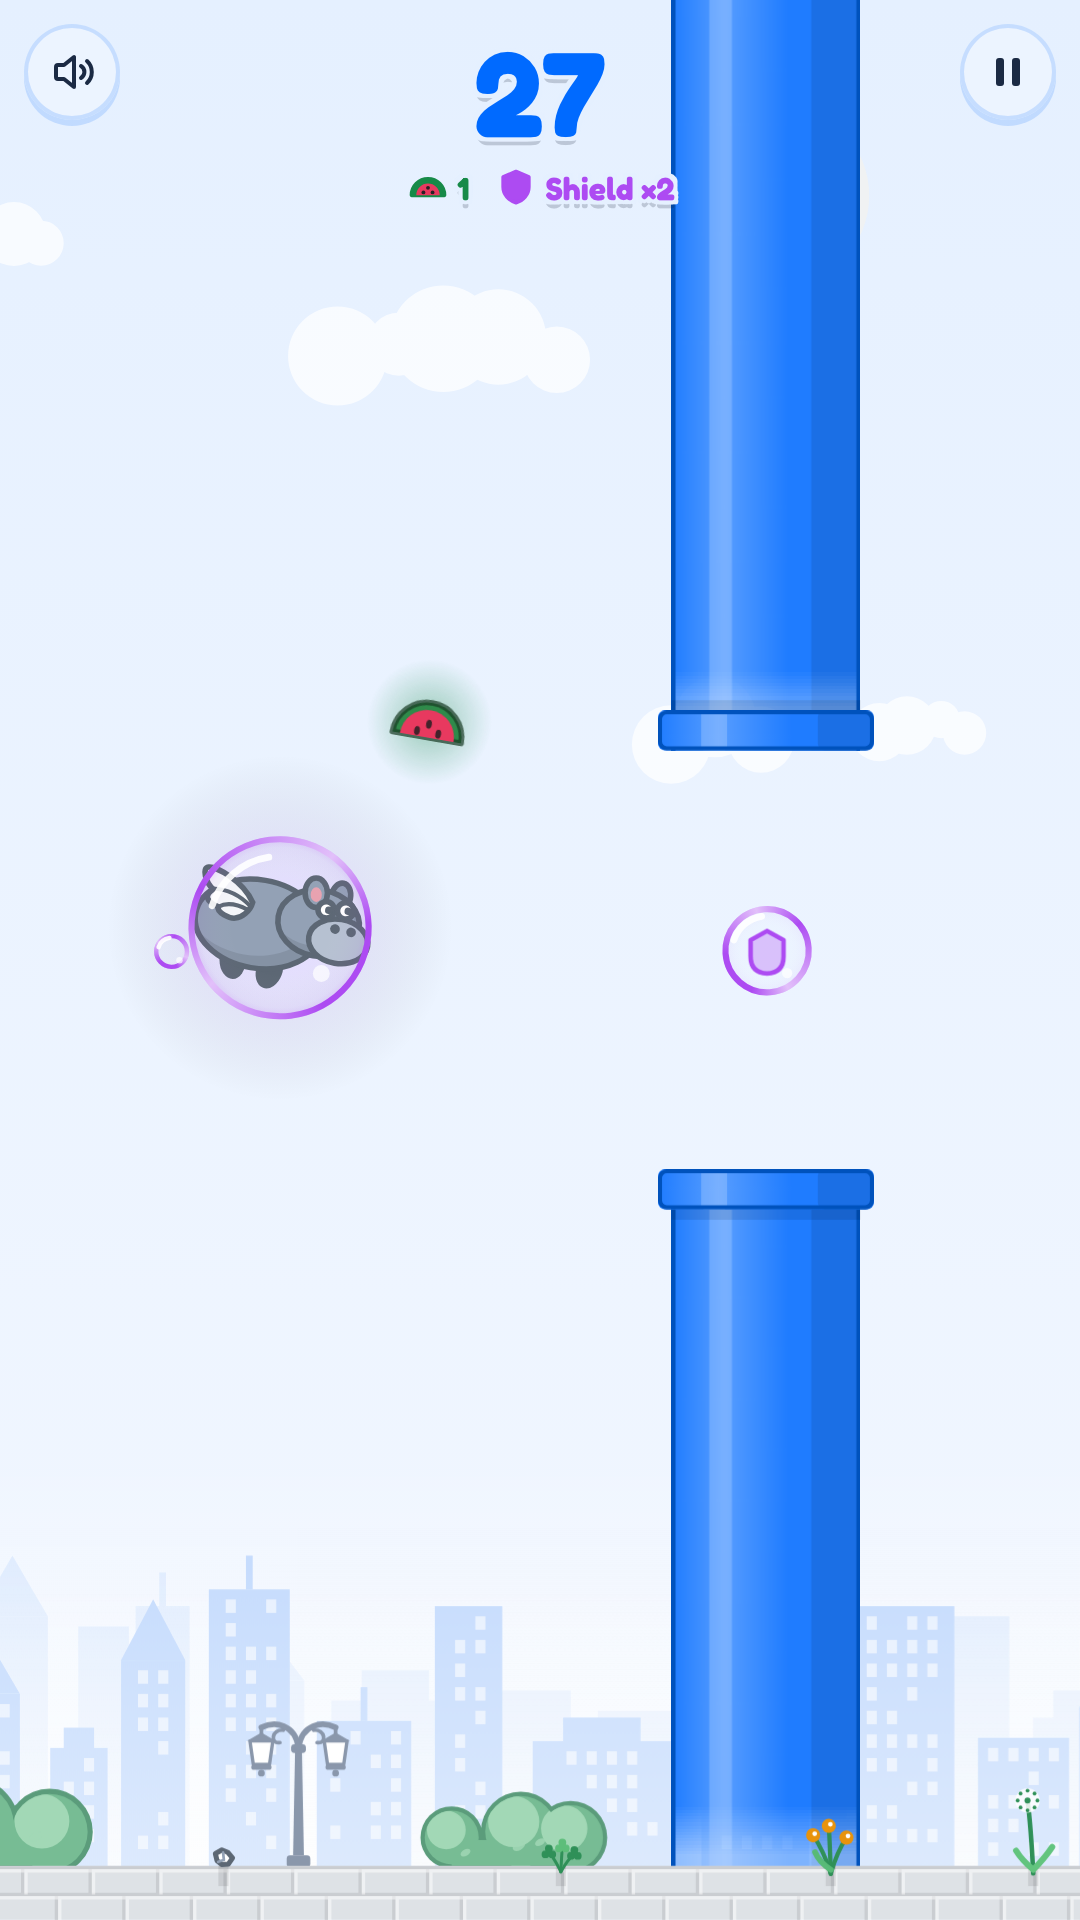
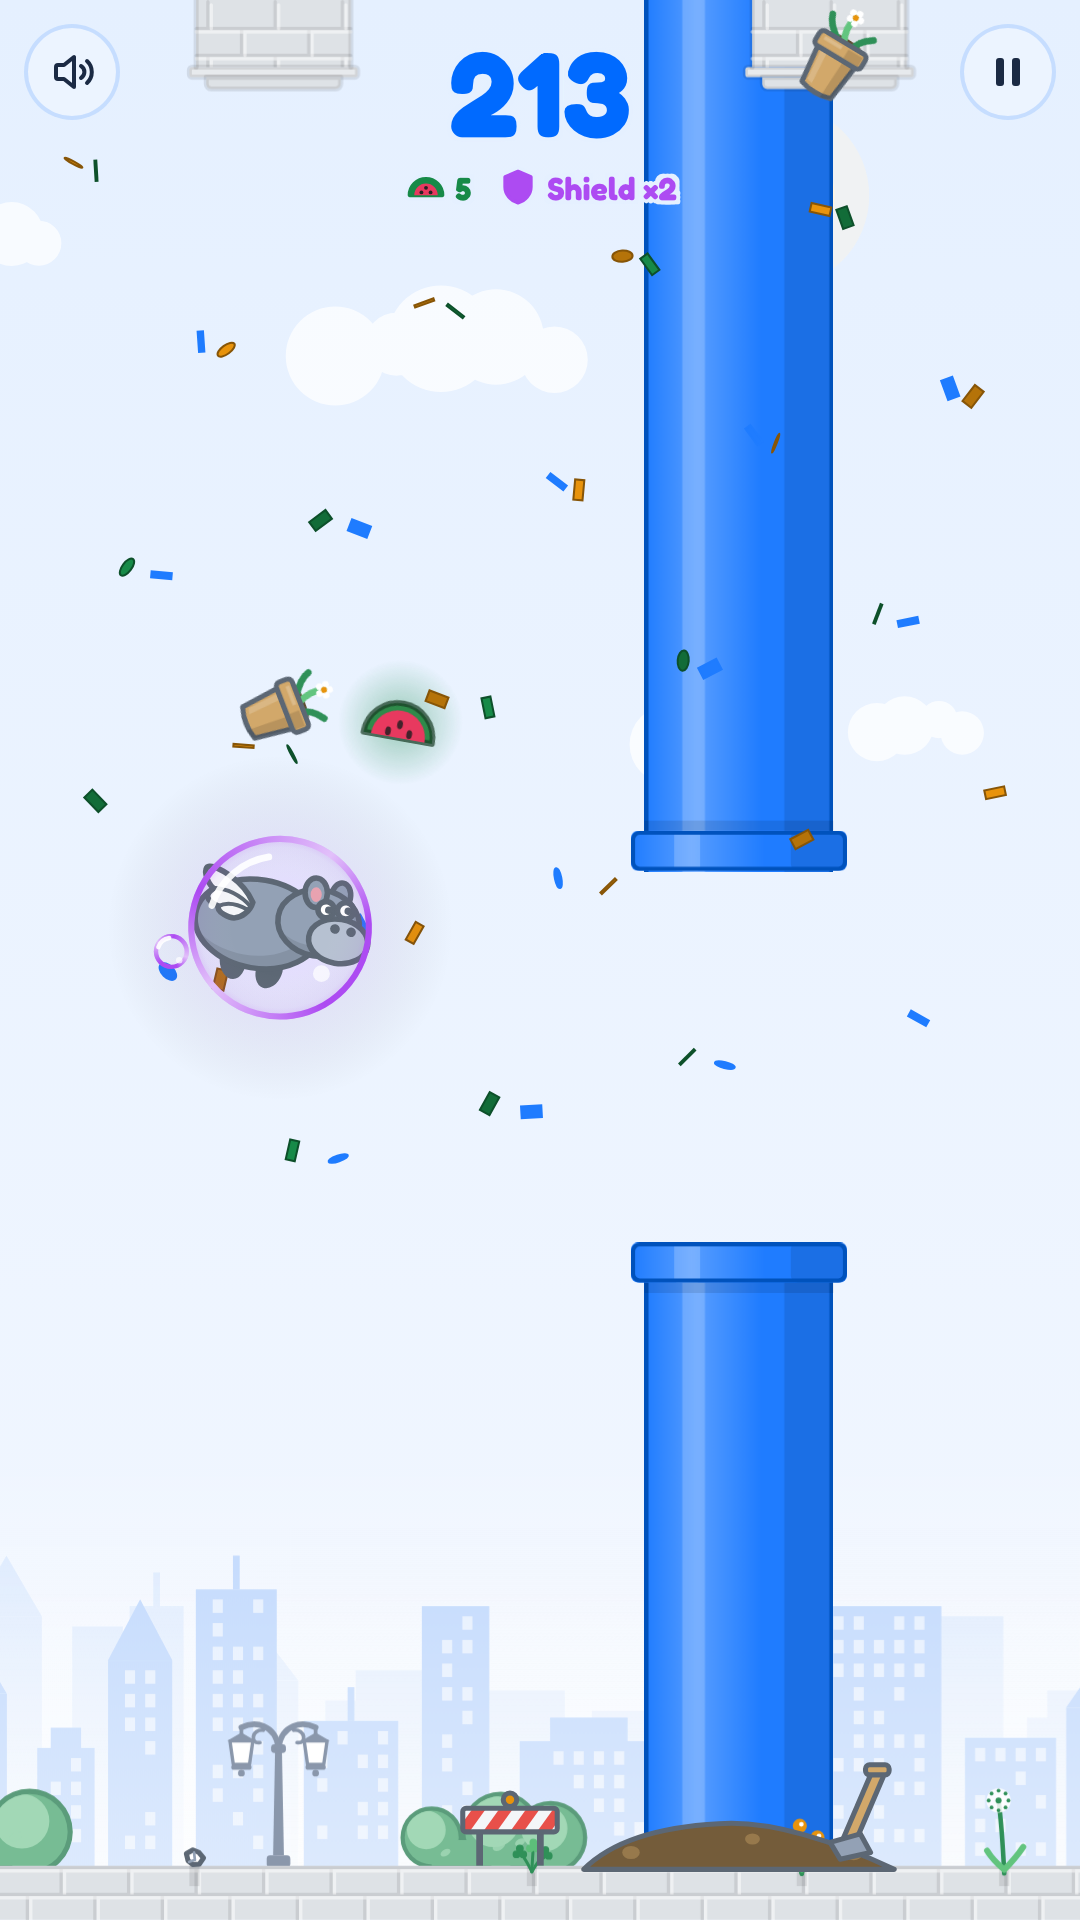
Prepare the release with poster and MIT license

diff --git a/scripts/make-screenshots.ts b/scripts/make-screenshots.ts
@@ -87,17 +87,23 @@ const VIEWPORTS = {
   wide: { width: 960, height: 540 },
 }
 
-/** A round in progress: score, a shield, a melon to detour for, pipes ahead. */
+/**
+ * A round deep in the game: a big score, a shield with a spare, a melon to detour for, a pipe
+ * under repair swinging ahead, a pot on its balcony and one already falling, and the last
+ * milestone's confetti still in the air.
+ */
 async function flight(page: Page): Promise<void> {
   await page.evaluate(() => {
     const runtime = (window as Window & { __flappyHippo?: { flap(): void; inspect(): { state: any; world: any } } }).__flappyHippo!
     runtime.flap()
     const { state, world } = runtime.inspect()
-    state.score = 27
-    state.pipesCleared = 24
-    state.melons = 1
+    state.score = 213
+    state.pipesCleared = 198
+    state.melons = 5
     state.charges = 2
     state.shieldAt = 0
+    state.potsDodged = 9
+    state.moversPassed = 14
     state.hippoY = world.groundY * 0.5
     state.velocity = -150
     const gap = state.hippoY
@@ -105,16 +111,28 @@ async function flight(page: Page): Promise<void> {
     // few frames it scrolls before the capture.
     const ahead = Math.max(world.hippoX + 150, world.width * 0.62)
     state.pipes = [
-      { x: ahead, gapY: gap + 8, half: 62, passed: false, baseY: gap + 8, swing: 0, phase: 0 },
-      { x: ahead + 210, gapY: gap - 55, half: 62, passed: false, baseY: gap - 55, swing: 0, phase: 0 },
-      { x: ahead + 420, gapY: gap + 25, half: 62, passed: false, baseY: gap + 25, swing: 0, phase: 0 },
+      { x: ahead, gapY: gap + 8, half: 55, passed: false, baseY: gap + 8, swing: 34, phase: 0.6 },
+      { x: ahead + 220, gapY: gap - 55, half: 55, passed: false, baseY: gap - 55, swing: 0, phase: 0 },
+      { x: ahead + 440, gapY: gap + 25, half: 55, passed: false, baseY: gap + 25, swing: 0, phase: 0 },
     ]
     // The melon hangs between the hippo and the first pipe, in view on every field.
     state.pickups = [
       { kind: 'melon', x: world.hippoX + 78, y: gap - 62, taken: false, seed: 1 },
-      { kind: 'shield', x: ahead + 28, y: gap + 8, taken: false, seed: 2 },
+      { kind: 'shield', x: ahead + 248, y: gap - 55, taken: false, seed: 2 },
     ]
-    state.nextSpawn = state.scrolled + ahead + 630
+    state.pots = [
+      { x: world.hippoX + 40, y: gap - 110, vy: 220, lead: 0.7, falling: true, spin: 0.7, passed: false, smashed: false, seed: 1 },
+      { x: Math.min(ahead + 120, world.width - 32), y: 13.4, vy: 0, lead: 0.8, falling: false, spin: 0.08, passed: false, smashed: false, seed: 2 },
+    ]
+    for (let i = 0; i < 44; i++) {
+      state.confetti.push({
+        x: 20 + ((i * 37) % (world.width - 40)),
+        y: 40 + ((i * 53) % (world.groundY * 0.55)),
+        vx: 0, vy: 30, angle: i, spin: 3, flip: i * 0.7, flipRate: 8,
+        w: 6, h: 3.5, round: i % 4 === 0, tint: i % 3, life: 1.5, seed: i,
+      })
+    }
+    state.nextSpawn = state.scrolled + ahead + 660
   })
   await sleep(80)
 }

diff --git a/index.html b/index.html
@@ -21,16 +21,18 @@
     <meta property="og:title" content="Flappy Hippo" />
     <meta property="og:description" content="Make the hippo fly and dodge the pipes. Playable offline, no account, no ads." />
     <meta property="og:url" content="https://stekhn.github.io/flappy-hippo/" />
-    <meta property="og:image" content="https://stekhn.github.io/flappy-hippo/screenshots/wide-flight.png" />
-    <meta property="og:image:width" content="1920" />
-    <meta property="og:image:height" content="1080" />
-    <meta property="og:image:alt" content="The flying hippo between two pipes, with the score." />
+    <meta property="og:image" content="https://stekhn.github.io/flappy-hippo/preview.jpg" />
+    <meta property="og:image:type" content="image/jpeg" />
+    <meta property="og:image:width" content="1200" />
+    <meta property="og:image:height" content="800" />
+    <meta property="og:image:alt" content="Flappy Hippo: a winged hippo flying between blue pipes over the city, a melon ahead, a black cat on the wall." />
     <meta property="og:locale" content="en_US" />
     <meta property="og:locale:alternate" content="de_DE" />
     <meta name="twitter:card" content="summary_large_image" />
     <meta name="twitter:title" content="Flappy Hippo" />
     <meta name="twitter:description" content="Make the hippo fly and dodge the pipes." />
-    <meta name="twitter:image" content="https://stekhn.github.io/flappy-hippo/screenshots/wide-flight.png" />
+    <meta name="twitter:image" content="https://stekhn.github.io/flappy-hippo/preview.jpg" />
+    <meta name="twitter:image:alt" content="Flappy Hippo: a winged hippo flying between blue pipes over the city." />
     <!-- Kept in step with the resolved theme by the boot script below and by ThemeProvider. -->
     <meta name="theme-color" content="#e5f0ff" />
     <meta name="mobile-web-app-capable" content="yes" />

diff --git a/src/game/constants.ts b/src/game/constants.ts
@@ -84,13 +84,13 @@ export const SHAKE_MS = 260
 // telegraphed and can be answered with skill.
 
 /**
- * Testing switch, code only: brings the stages forward to 10 and 20 points so a moving pipe or a
- * pot is a minute away, not ten. The title card says so while it is on. Ship with it off.
+ * Test mode, code only: brings the stages forward to 10 and 20 points so a moving pipe or a pot
+ * is a minute away, not ten. The title card says so while it is on. Ship with it off.
  */
-export const EARLY_STAGES = true
+export const TEST_MODE = false
 /** Scores at which the stages begin: pipes on the move, then flower pots falling from balconies. */
-export const STAGE_MOVERS = EARLY_STAGES ? 10 : 50
-export const STAGE_POTS = EARLY_STAGES ? 20 : 100
+export const STAGE_MOVERS = TEST_MODE ? 10 : 50
+export const STAGE_POTS = TEST_MODE ? 20 : 100
 /**
  * The top of the game. Everything that tightens with the score — speed, spacing, gap, how many
  * pipes move and how far, how many pots fall — reaches its final value here and holds. Past it a

diff --git a/scripts/make-assets.ts b/scripts/make-assets.ts
@@ -40,6 +40,13 @@ await out('icon-mono-512.png', await raster(mono, 512))
 await out('apple-touch-icon.png', await raster(maskable, 180))
 // Browsers without SVG favicon support (Safari) fall back to this.
 await out('favicon-32.png', await raster(await readFile(join(root, 'public', 'favicon.svg')), 32))
+
+// The link preview (Open Graph, Twitter card): the poster, at a size every network accepts and
+// a weight a chat client fetches without blinking. Its 3:2 keeps the title and the cat; feeds
+// that want 1.91:1 crop a little sky and wall.
+const preview = await sharp(await asset('poster.jpeg')).resize(1200, 800).jpeg({ quality: 82, mozjpeg: true }).toBuffer()
+await writeFile(join(root, 'public', 'preview.jpg'), preview)
+console.log(`public/preview.jpg (${Math.round(preview.length / 1024)} KB)`)
 await writeFile(join(root, 'public', 'mask-icon.svg'), await asset('mask-icon.svg'))
 
 // ---- iOS splash screens ----------------------------------------------------------------------

diff --git a/src/components/StartCard.tsx b/src/components/StartCard.tsx
@@ -1,4 +1,4 @@
-import { EARLY_STAGES, STAGE_MOVERS, STAGE_POTS } from '../game/constants.ts'
+import { STAGE_MOVERS, STAGE_POTS, TEST_MODE } from '../game/constants.ts'
 import { DIFFICULTIES } from '../game/difficulty.ts'
 import type { DifficultyId } from '../game/difficulty.ts'
 import { t } from '../i18n/index.ts'
@@ -68,8 +68,8 @@ export function StartCard({
         </button>
       </div>
 
-      {/* The stages were brought forward in code for testing: say so, or it ships that way. */}
-      {EARLY_STAGES && <p className="t-hint mt-3">{t.start.testMode(STAGE_MOVERS, STAGE_POTS)}</p>}
+      {/* Test mode brings the stages forward: say so, or it ships that way. */}
+      {TEST_MODE && <p className="t-hint mt-3">{t.start.testMode(STAGE_MOVERS, STAGE_POTS)}</p>}
     </CardShell>
   )
 }

diff --git a/src/main.tsx b/src/main.tsx
@@ -2,13 +2,13 @@ import { StrictMode } from 'react'
 import { createRoot } from 'react-dom/client'
 import App from './App.tsx'
 import { ThemeProvider } from './components/ThemeProvider.tsx'
-import { EARLY_STAGES, STAGE_MOVERS, STAGE_POTS } from './game/constants.ts'
+import { STAGE_MOVERS, STAGE_POTS, TEST_MODE } from './game/constants.ts'
 import { locale } from './i18n/index.ts'
 import './styles.css'
 
 document.documentElement.lang = locale
 
-if (EARLY_STAGES) console.warn(`Flappy Hippo: stages at ${STAGE_MOVERS} and ${STAGE_POTS} points (EARLY_STAGES in constants.ts)`)
+if (TEST_MODE) console.warn(`Flappy Hippo: test mode, stages at ${STAGE_MOVERS} and ${STAGE_POTS} points (TEST_MODE in constants.ts)`)
 
 createRoot(document.getElementById('root')!).render(
   <StrictMode>

diff --git a/README.md b/README.md
@@ -33,7 +33,7 @@ npm run build        # static bundle in dist/
 npm run preview      # serve the build under /flappy-hippo/
 npm test             # game logic (Node test runner)
 npm run lint         # oxlint
-npm run assets       # assets/*.svg → icons, favicon, iOS splash screens
+npm run assets       # assets/* → icons, favicon, iOS splash screens, link preview
 npm run screenshots  # manifest screenshots from the running app (needs Chrome, see below)
 ```
 
@@ -85,3 +85,7 @@ scripts/           asset and screenshot generation
 The game began as an easter egg on a maintenance page of an internal Next.js app and grew into a
 standalone web app here: a portrait-friendly field, pickups, difficulties, sound, records,
 achievements and offline play.
+
+## License
+
+[MIT](LICENSE)
